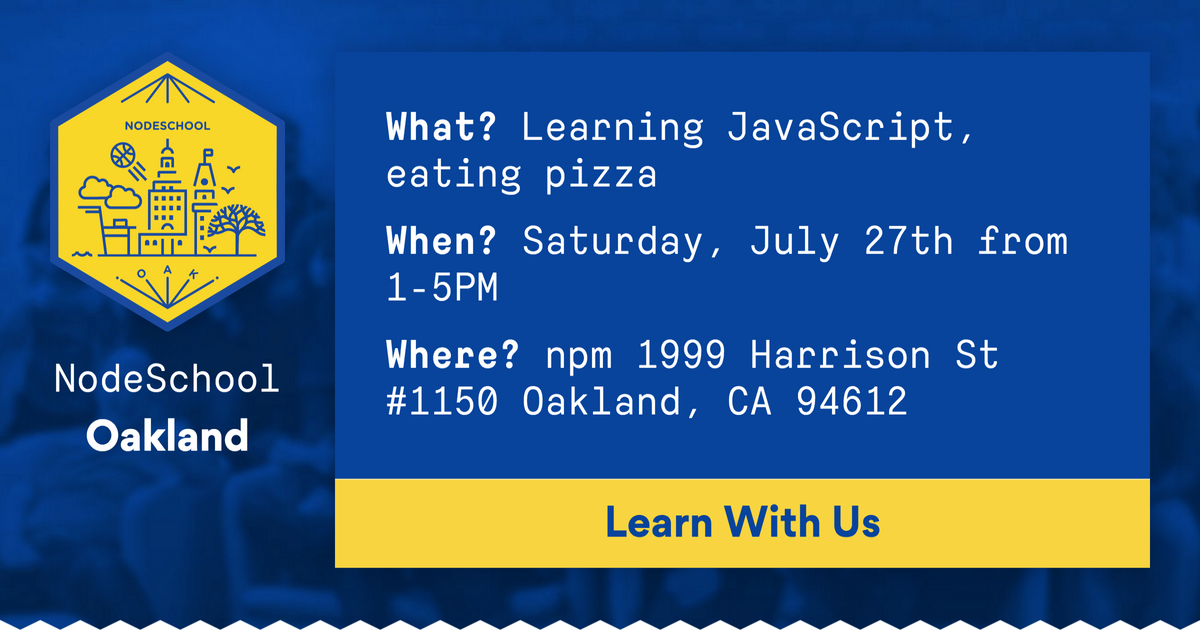
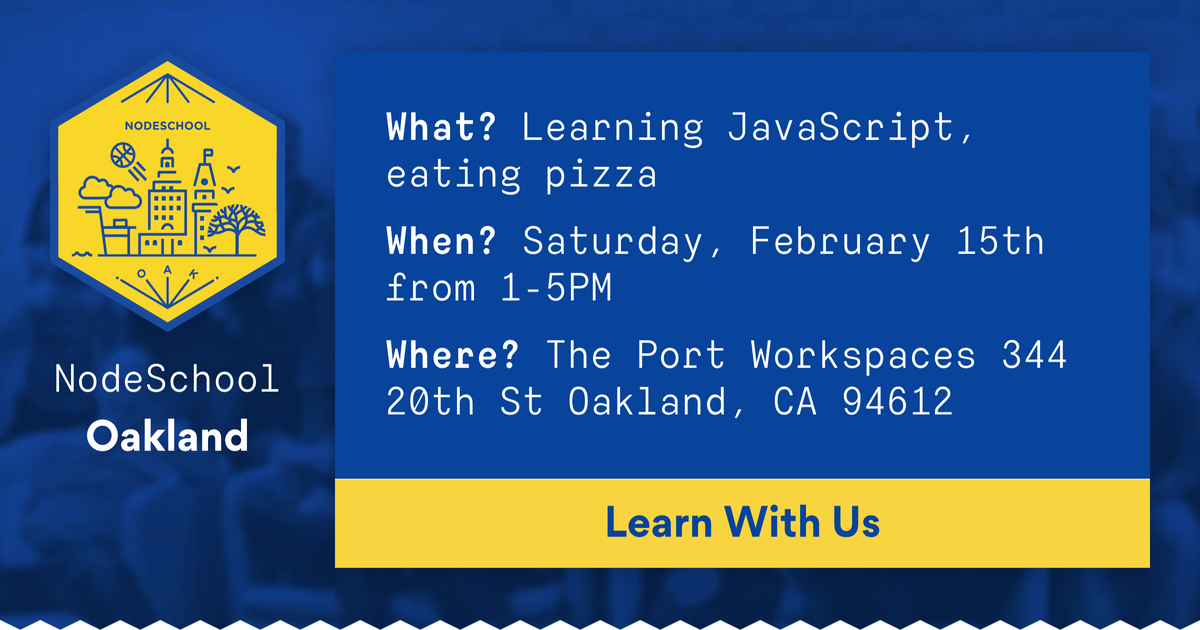
AUTOMATIC site update

diff --git a/docs/index.html b/docs/index.html
@@ -7,14 +7,14 @@
     <meta property="og:type" content="website" />
     <meta property="og:description" content="NodeSchool Oakland is a monthly meetup dedicated to helping people learn JavaScript." />
     <meta property="og:url" content="https://nodeschool.io/oakland/" />
-    <meta property="og:image" content="https://nodeschool.io/oakland/images/social.png?t=1562957865815" />
+    <meta property="og:image" content="https://nodeschool.io/oakland/images/social.png?t=1580423937285" />
     <!--Twitter-->
     <meta name="twitter:card" content="summary_large_image">
     <meta name="twitter:site" content="@nodeschooloak">
     <meta name="twitter:creator" content="@nodeschooloak">
     <meta name="twitter:title" content="NodeSchool Oakland">
     <meta name="twitter:description" content="NodeSchool Oakland is a monthly meetup dedicated to helping people learn JavaScript.">
-    <meta name="twitter:image" content="https://nodeschool.io/oakland/images/social.png?t=1562957865815">
+    <meta name="twitter:image" content="https://nodeschool.io/oakland/images/social.png?t=1580423937285">
 
     <title>NodeSchool Oakland</title>
     <link rel="stylesheet" href="./styles/index.css" />
@@ -63,13 +63,13 @@
 
           <div class="next-event">
             <div class="next-event__description">
-              <h2 class="next-event__heading">Our Next Event is on July 27th</h2>
+              <h2 class="next-event__heading">Our Next Event is on February 15th</h2>
               <ul class="next-event__info">
                 <li class="next-event__info__item">
-                  <strong class="strong--alt">When?</strong> Saturday, July 27th from 1-5PM
+                  <strong class="strong--alt">When?</strong> Saturday, February 15th from 1-5PM
                 </li>
                 <li class="next-event__info__item">
-                  <strong class="strong--alt">Where?</strong> npm 1999 Harrison St #1150 Oakland, CA 94612 [<a href="http://maps.google.com/?q=1999%20Harrison%20St%20%231150%20Oakland%2C%20CA%2094612">map</a>]
+                  <strong class="strong--alt">Where?</strong> The Port Workspaces 344 20th St Oakland, CA 94612 [<a href="http://maps.google.com/?q=344%2020th%20St%20Oakland,%20CA%2094612">map</a>]
                 </li>
                 <li class="next-event__info__item">
                   <strong class="strong--alt">What?</strong> Learning, mentoring, javascript bffs, and pizza 🍕
@@ -77,9 +77,9 @@
               </ul>
             </div>
             <nav class="next-event__actions">
-              <a class="next-event__action__learner next-event__action button" href="https:&#x2F;&#x2F;ti.to&#x2F;nodeschool-oakland&#x2F;nodeschool-oakland-july-2019">
+              <a class="next-event__action__learner next-event__action button" href="https:&#x2F;&#x2F;ti.to&#x2F;nodeschool-oakland&#x2F;nodeschool-oakland-february-2020">
                 Sign up as a Learner
-              </a><a class="next-event__action__mentor next-event__action button" href="https:&#x2F;&#x2F;github.com&#x2F;nodeschool&#x2F;oakland&#x2F;issues&#x2F;77">
+              </a><a class="next-event__action__mentor next-event__action button" href="https:&#x2F;&#x2F;github.com&#x2F;nodeschool&#x2F;oakland&#x2F;issues&#x2F;84">
                 Sign up as a Mentor
               </a>
             </nav>

diff --git a/docs/social.html b/docs/social.html
@@ -20,8 +20,8 @@
         <div class="social__message next-event">
           <div class="next-event__description">
             <p><strong>What?</strong> Learning JavaScript, eating pizza</p>
-            <p><strong>When?</strong> Saturday, July 27th from 1-5PM</p>
-            <p><strong>Where?</strong> npm 1999 Harrison St #1150 Oakland, CA 94612</p>
+            <p><strong>When?</strong> Saturday, February 15th from 1-5PM</p>
+            <p><strong>Where?</strong> The Port Workspaces 344 20th St Oakland, CA 94612</p>
           </div>
           <div class="next-event__actions">
             <button class="next-event__action__learn next-event__action social__button button">Learn With Us</button>
